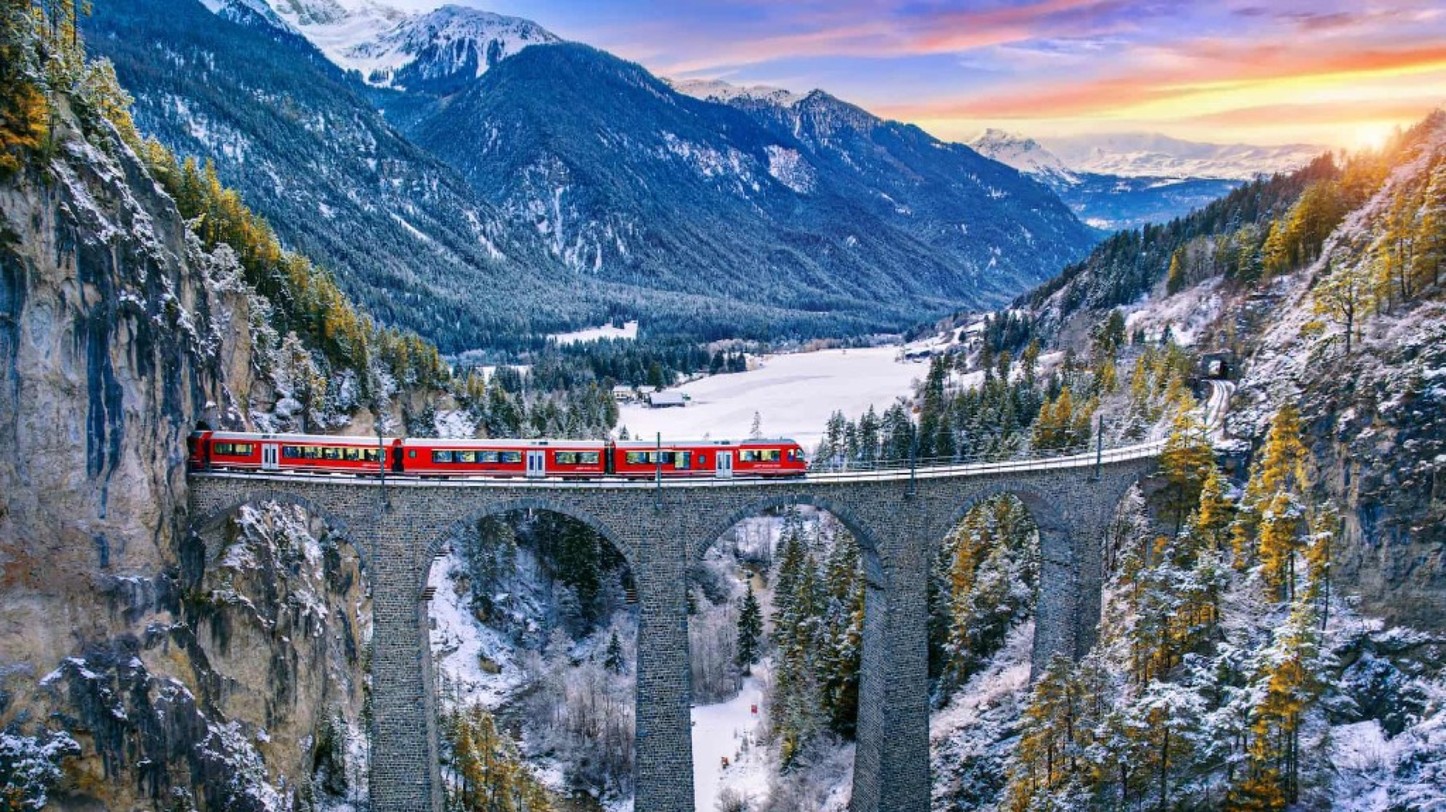
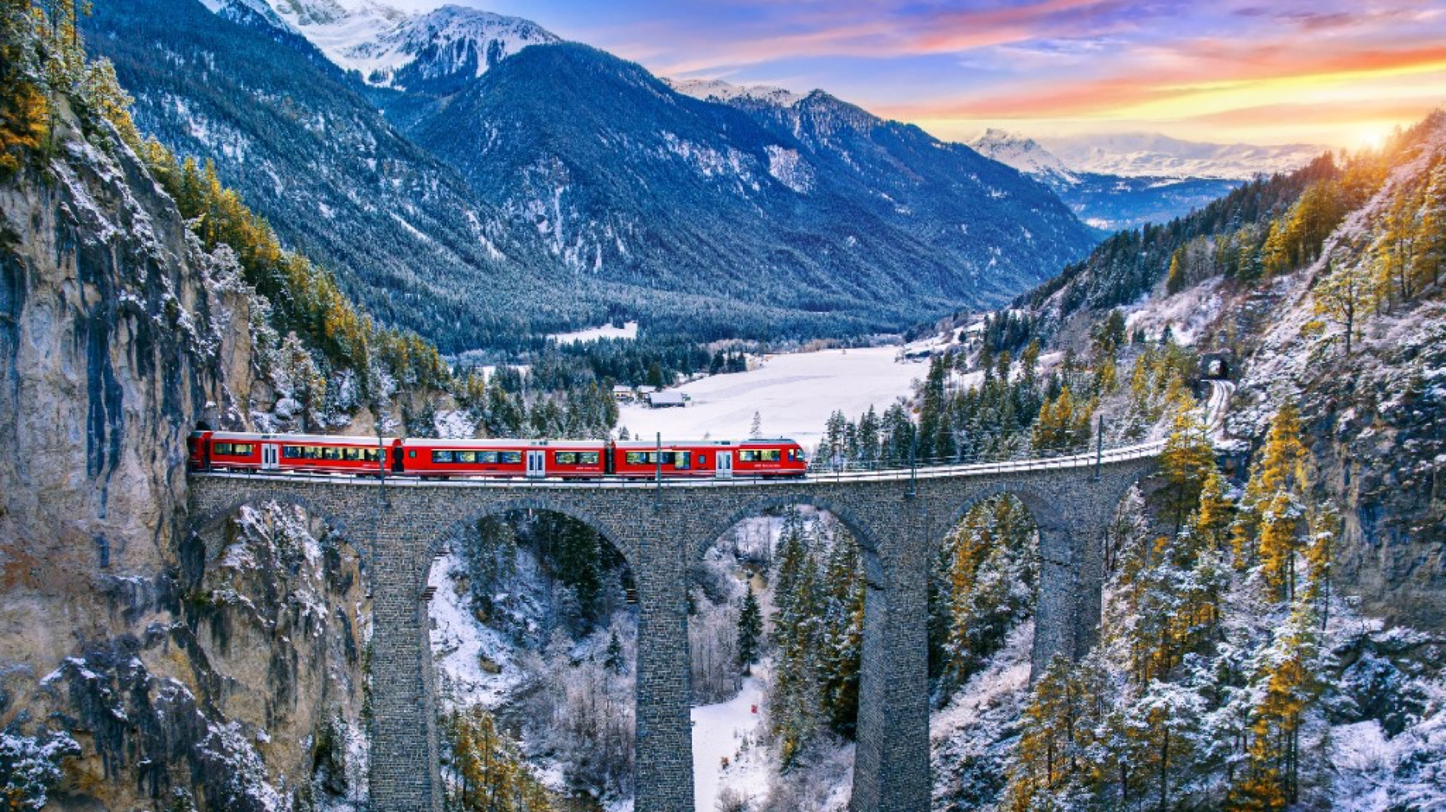
hero: new winter Landwasser crop, reframe to reveal sunset light (center 15%)

diff --git a/option-1-editorial.html b/option-1-editorial.html
@@ -195,7 +195,7 @@
   .hero-cover__media {
     position: absolute;
     inset: 0;
-    background: url(assets/hero-bernina-train.png) center center / cover no-repeat;
+    background: url(assets/hero-bernina-train.png) center 15% / cover no-repeat;
     z-index: 0;
     transform: translateZ(0);
   }
